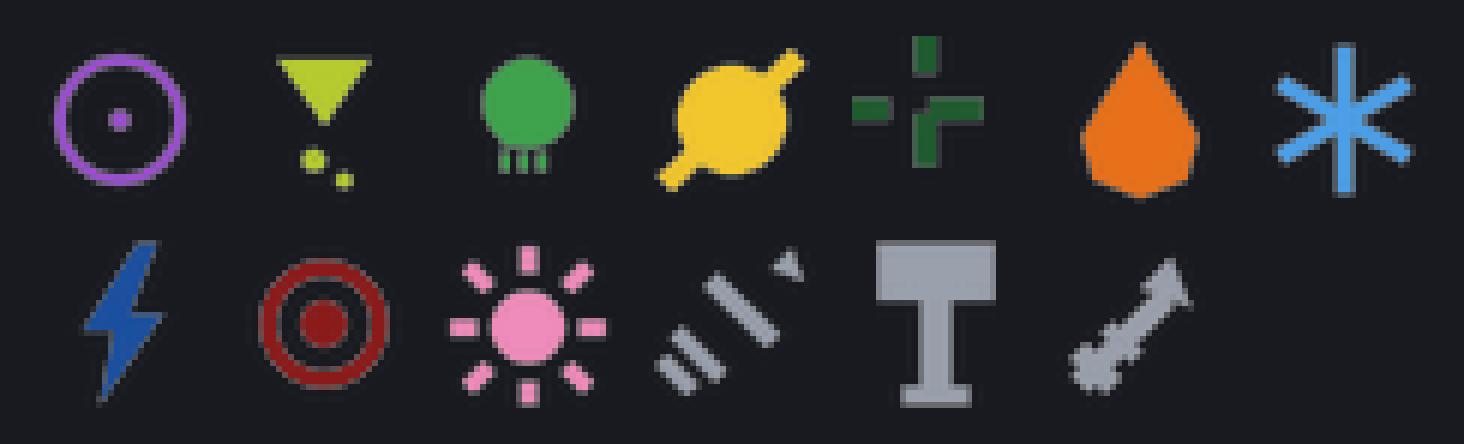
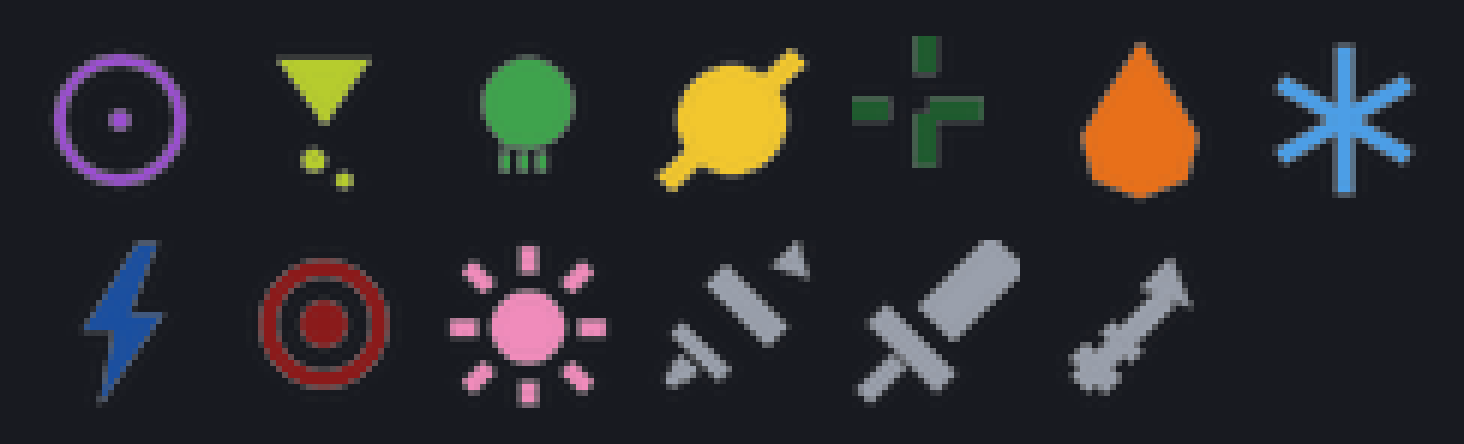
图标精修：钝击锤倾斜 45°、挥砍刀补上剑柄
玩家要求：
  钝击再修改一轮，把它像挥砍和穿刺一样倾斜 45 度
  挥砍图标在目前基础上做出剑柄

一、钝击（锤）：改为 45° 斜置
   原来锤头与柄都是轴对齐的（横平竖直），与斜置的刀/箭不一致。
   现在锤头 / 柄 / 柄尾**全部旋转 45°**，与刀、箭同一倾斜方向。

二、挥砍（刀）：补出**完整的剑柄**
   刀身加宽（0.12 -> 0.17）、柄收细（0.26 -> 0.14），
   并补上**柄头**（一个小圆）。
   ⚠ 之前刀身与柄一样粗，看起来是"一根棍"而不是刀 —— 差分就在粗细对比。

三、迭代方式（这次做对了）
   我在 `Tools/preview_icons.py` 里用 Pillow 复刻了同一套形状规则，
   每改一版就导出 `Tools/_icons_preview.png` **自己先看**，
   确认刀/锤认得出之后才同步进 C#。
   （前几轮是先改 C# 再让你在游戏里看 —— 那是把我的试错成本转嫁给你。）

四、图标现状
   ✅ 残响(同心声波) 强酸(倒三角+滴) 燃烧(火苗) 寒冷(雪花) 闪电(折线)
      目盲(眼+斜杠) 力场(力场泡) 心灵(星爆) 刀(45°) 锤(45°) 箭(45°)
   ⚠ 腐朽(断口十字) 仍偏粗，可以再收一轮

验证：850 项全绿、UI 编译通过（81 个脚本）、无警告。

Changed region(s): [[0.584, 0.527, 0.707, 0.9369], [0.4303, 0.527, 0.5533, 0.9077]]

diff --git a/Assets/Scripts/Core/DamageIcons.cs b/Assets/Scripts/Core/DamageIcons.cs
@@ -174,24 +174,24 @@ namespace FingerDiceDuel.Core
                 case "slashing":     // 挥砍：刀
                     return new List<Shape>
                     {
-                        // ⚠ 一把**完整的刀**：刀身 + 刀尖 + 护手 + 刀柄，
-                        //    全部沿同一条 45° 对角线。
-                        //    （我第一版四块各自旋转 45° 但没有对齐，
-                        //      看起来是四段虚线，玩家一眼就认不出是刀。）
-                        R(0.56f, 0.42f, 0.12f, 0.52f, 45f),     // 刀身
-                        T(0.86f, 0.18f, 0.17f, 0.19f, 225f),    // 刀尖
-                        R(0.30f, 0.68f, 0.38f, 0.10f, 135f),    // 护手（垂直于刀）
-                        R(0.175f, 0.805f, 0.10f, 0.26f, 45f),   // 刀柄
+                        // 45° 斜置的刀：
+                        //   刀身（宽）+ 刀尖 + 护手（垂直于刀身）+ 柄 + 柄头
+                        // ⚠ 刀身要够宽、柄要够细 —— 两者一样粗就会变成"一根棍"。
+                        R(0.59f, 0.39f, 0.17f, 0.52f, 45f),     // 刀身
+                        T(0.885f, 0.155f, 0.22f, 0.21f, 225f),  // 刀尖
+                        R(0.315f, 0.665f, 0.40f, 0.10f, 135f),  // 护手
+                        R(0.215f, 0.765f, 0.10f, 0.14f, 45f),   // 柄
+                        C(0.155f, 0.825f, 0.048f),              // 柄头
                     };
 
                 case "bludgeoning":  // 钝击：锤
                     return new List<Shape>
                     {
-                        // 宽扁锤头 + 粗柄 + 柄尾
-                        // （柄太细会看不出是锤 —— 第一版就是这样）
-                        R(0.5f, 0.19f, 0.70f, 0.34f),
-                        R(0.5f, 0.60f, 0.18f, 0.56f),
-                        R(0.5f, 0.925f, 0.40f, 0.11f),
+                        // 与刀、箭**同一倾斜方向**（45°）：
+                        //   锤头 + 柄 + 柄尾
+                        R(0.715f, 0.285f, 0.62f, 0.30f, 45f),   // 锤头
+                        R(0.355f, 0.645f, 0.16f, 0.58f, 45f),   // 锤柄
+                        R(0.175f, 0.825f, 0.30f, 0.12f, 45f),   // 柄尾
                     };
 
                 case "piercing":     // 穿刺：箭矢

diff --git a/Tools/preview_icons.py b/Tools/preview_icons.py
@@ -124,22 +124,17 @@ SHAPES = {
                 ('line', .14, .16, .27, .29, 3), ('line', .73, .75, .86, .88, 3),
                 ('line', .14, .88, .27, .75, 3), ('line', .73, .29, .86, .16, 3)],
 
-    # 挥砍：**一把完整的刀**（刀尖 + 刀身 + 护手 + 刀柄，全在一条 45° 线上）
-    'slashing': [
-        # 刀身：沿 45° 的窄长矩形（中心在刀身中点）
-        ('rect', .56, .42, .12, .52, 45),
-        # 刀尖：在刀身右上端
-        ('tri_d', .86, .18, .17, .19, 45),
-        # 护手：**垂直**于刀身（所以旋转 135°），放在刀身左下端
-        ('rect', .30, .68, .38, .10, 135),
-        # 刀柄：继续往左下
-        ('rect', .175, .805, .10, .26, 45),
-    ],
+    # 挥砍：斜置 45° 的刀；刀身更宽，柄收细 -> 才像"刀"而不是一根棍
+    'slashing': [('rect', .59, .39, .17, .52, 45),          # 刀身（宽）
+                 ('tri_d', .885, .155, .22, .21, 45),       # 刀尖
+                 ('rect', .315, .665, .40, .10, 135),       # 护手（垂直于刀身）
+                 ('rect', .215, .765, .10, .14, 45),        # 柄
+                 ('circle', .155, .825, .048)],             # 柄头
 
-    # 钝击：锤（**粗柄** + 大锤头 + 柄尾）
-    'bludgeoning': [('rect', .5, .19, .70, .34),      # 锤头（宽扁）
-                    ('rect', .5, .60, .18, .56),      # 锤柄（粗）
-                    ('rect', .5, .925, .40, .11)],    # 柄尾
+    # 钝击：斜置 45° 的锤；锤头收窄一点、柄加长
+    'bludgeoning': [('rect', .715, .285, .62, .30, 45),     # 锤头
+                    ('rect', .355, .645, .16, .58, 45),     # 锤柄
+                    ('rect', .175, .825, .30, .12, 45)],    # 柄尾
 
     # 穿刺：箭矢（箭头 + 箭杆 + 尾羽）
     'piercing': [('tri_d', .70, .30, .26, .30, 45),
